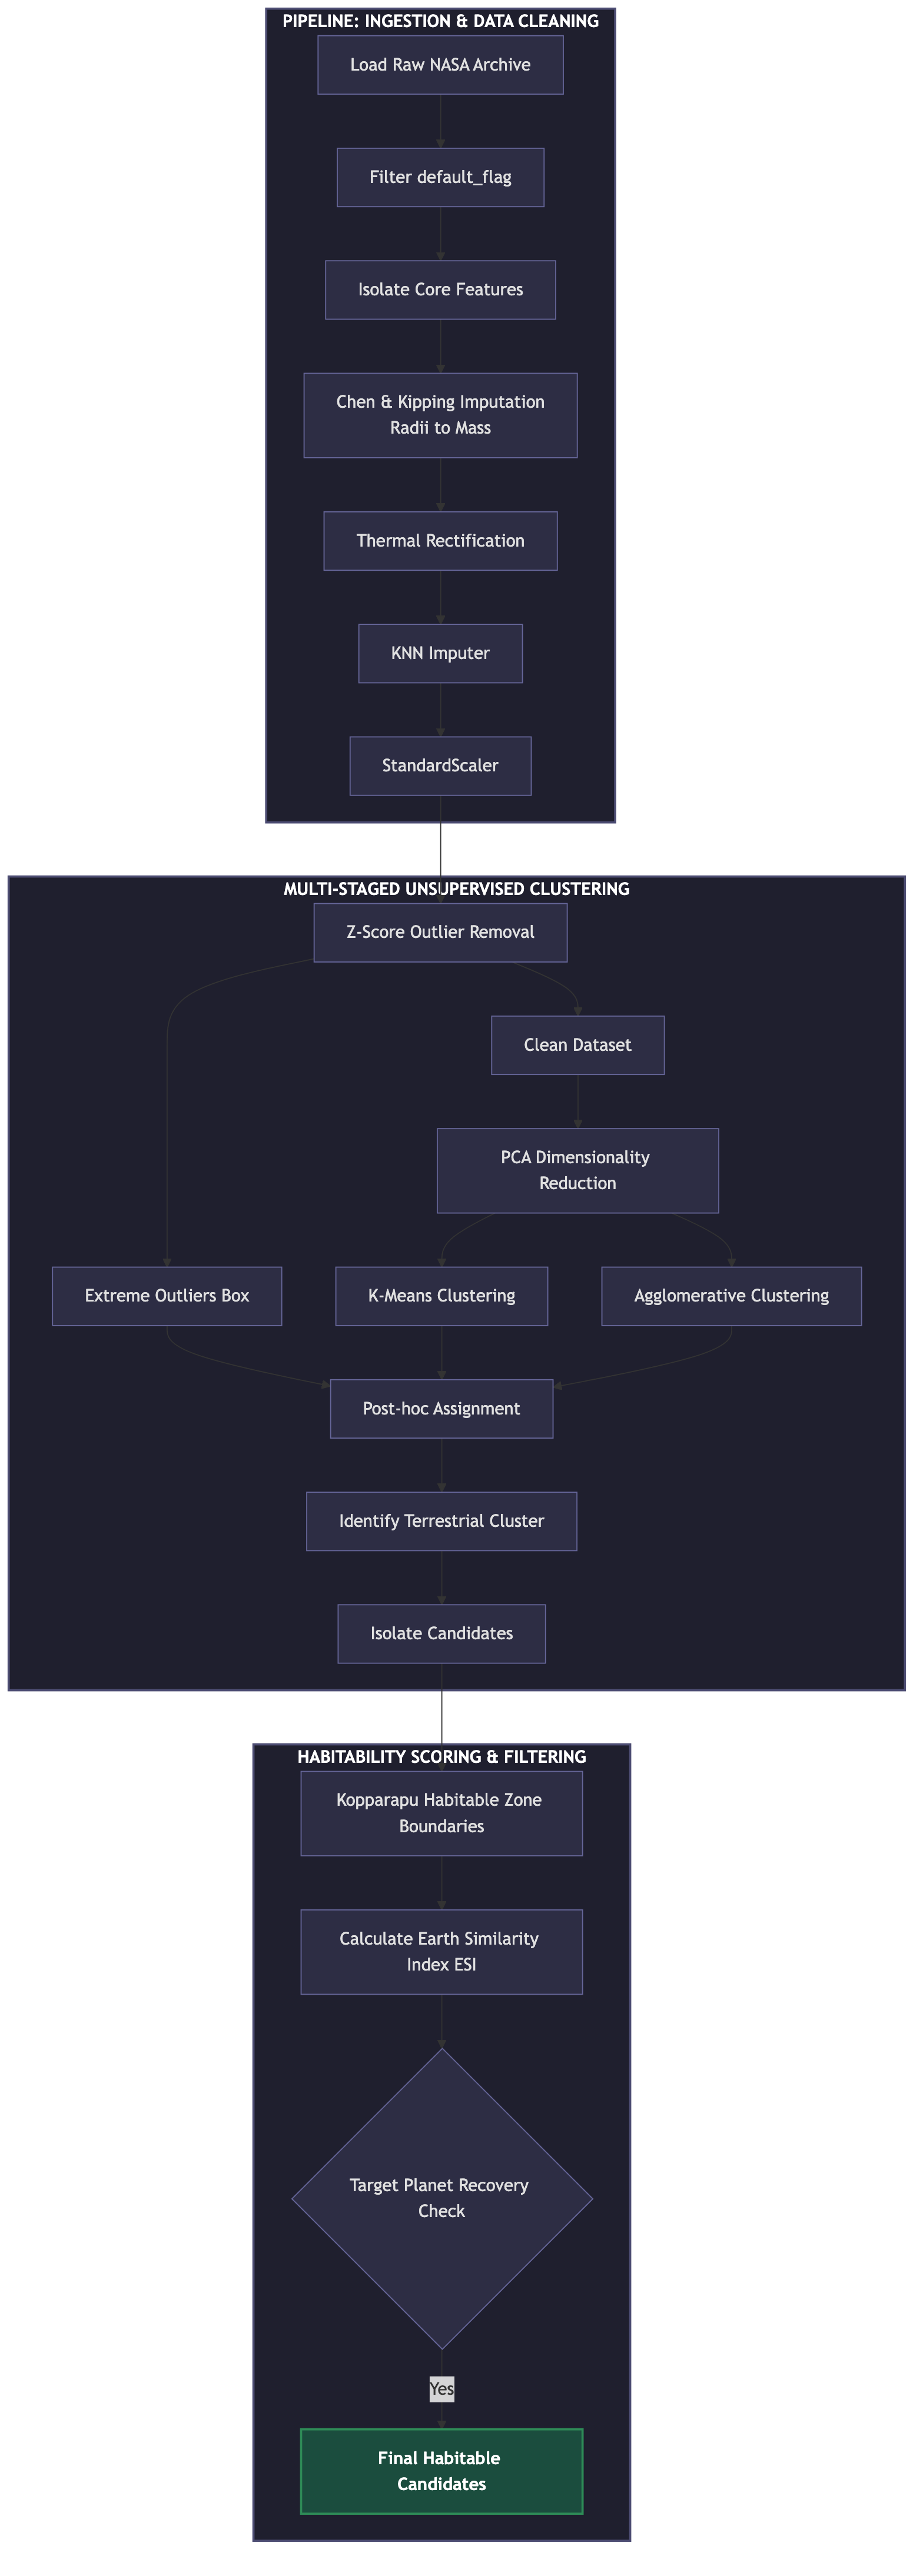
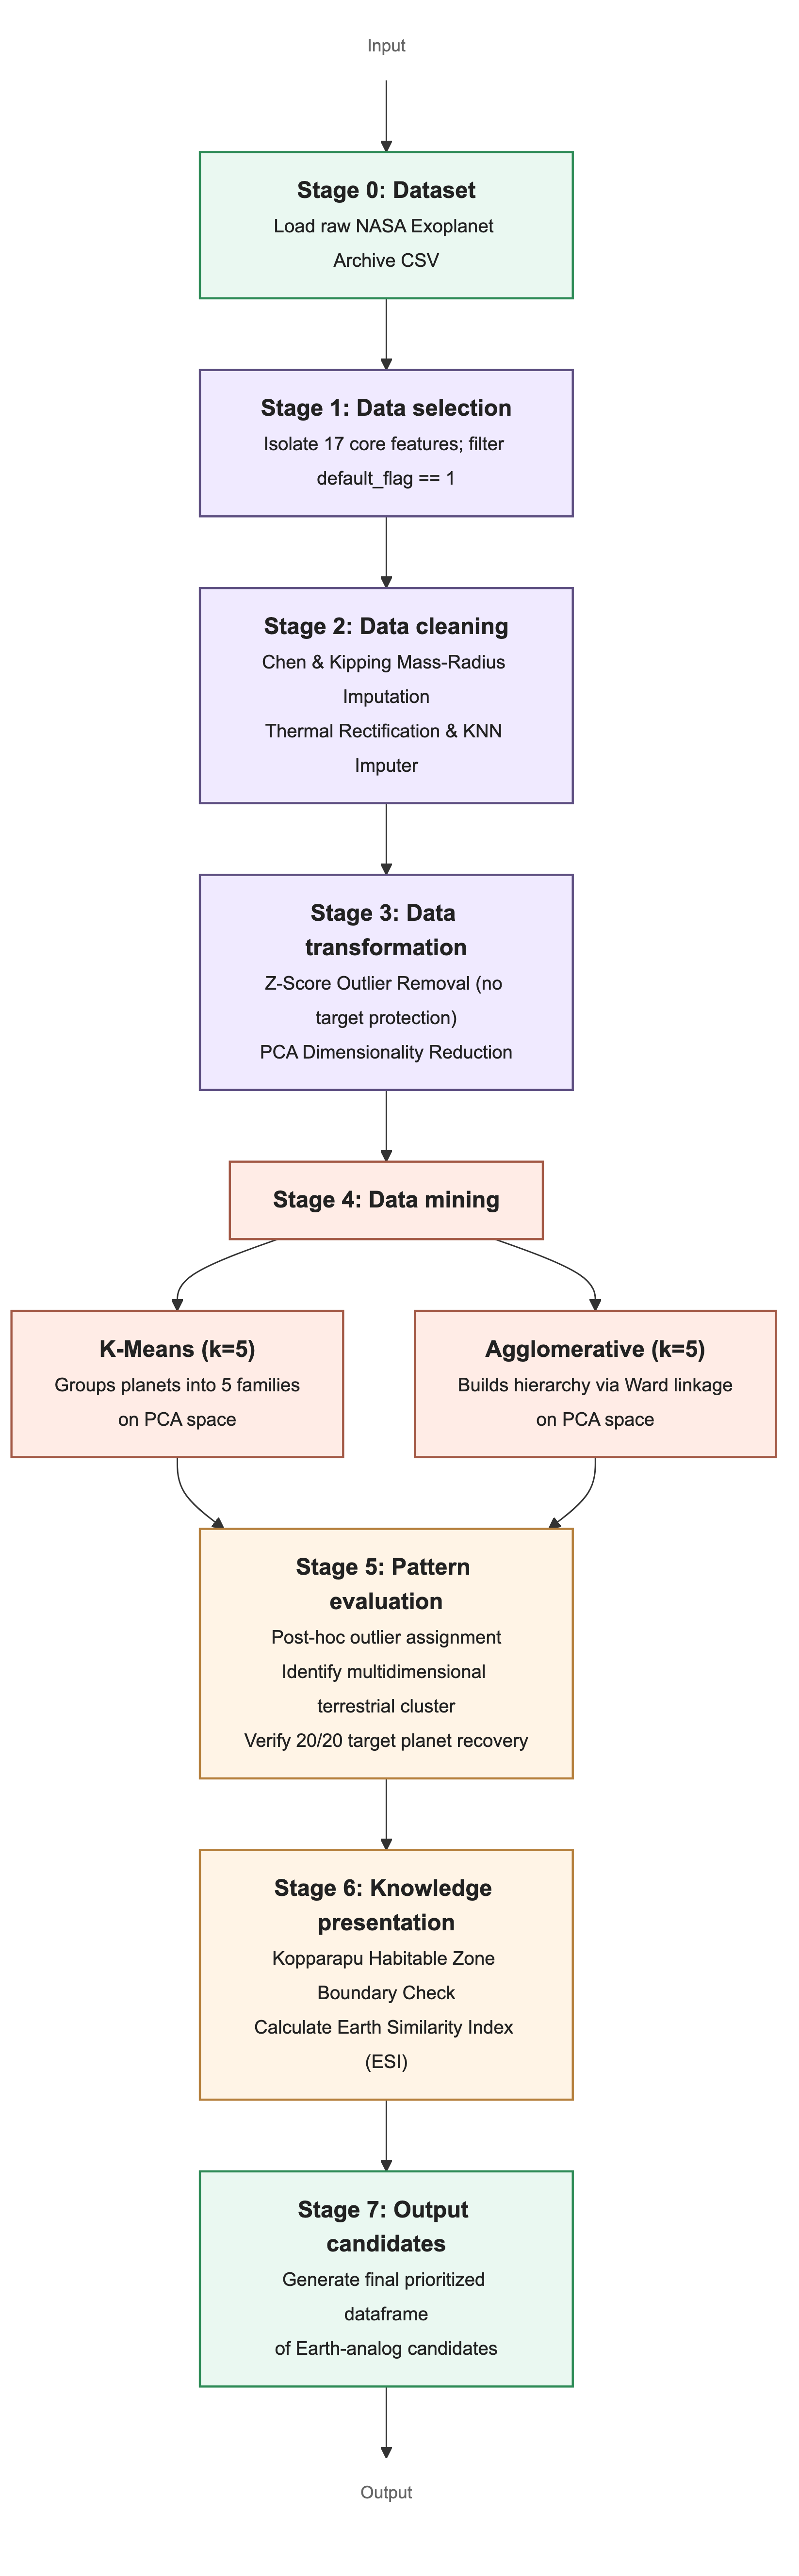
Update pipeline flowchart to match the visual style of previous publication

diff --git a/README.md b/README.md
@@ -8,89 +8,43 @@ The complete workflow, from ingesting the raw NASA Exoplanet Archive CSV to the 
 
 ```mermaid
 graph TD
-    %% Base Styles
-    classDef section fill:#1f1f2e,stroke:#4d4d73,stroke-width:2px,color:#fff,font-weight:bold;
-    classDef step fill:#2d2d44,stroke:#666699,stroke-width:1px,color:#e0e0e0;
-    classDef highlight fill:#1b4d3e,stroke:#2e8b57,stroke-width:2px,color:#fff,font-weight:bold;
-    classDef output fill:#4d1b1b,stroke:#8b2e2e,stroke-width:1px,color:#ffcccc;
+    classDef dataScope fill:#eaf8f1,stroke:#2e8b57,stroke-width:1.5px,color:#222,font-family:sans-serif;
+    classDef preprocessing fill:#f0eaff,stroke:#5e5082,stroke-width:1.5px,color:#222,font-family:sans-serif;
+    classDef mining fill:#ffece6,stroke:#a35946,stroke-width:1.5px,color:#222,font-family:sans-serif;
+    classDef evaluation fill:#fff4e6,stroke:#b57f3c,stroke-width:1.5px,color:#222,font-family:sans-serif;
+    classDef empty fill:none,stroke:none,color:#666,font-family:sans-serif,font-size:12px;
 
-    %% -----------------------------------------------------------------
-    %% SECTION 1: LOAD & PREPROCESS
-    %% -----------------------------------------------------------------
-    subgraph S1 [SECTION 1 to 3: INGESTION & DATA CLEANING]
-        A[Load Raw NASA CSV Archive] --> B[Filter default_flag == 1]
-        B --> C[Isolate 17 Core Features]
-        C --> D[Chen & Kipping Imputation<br/>Radii <--> Mass Mappings]
-        D --> E[Thermal Rectification<br/>Fix pl_eqt using pl_insol]
-        E --> F[KNN Imputer<br/>Fill remaining NaNs]
-        F --> G[StandardScaler<br/>Normalize Feature Matrix]
-    end
-    class S1 section;
-    class A,B,C,D,E,F,G step;
+    Input[Input]:::empty --> Stage0
 
-    %% -----------------------------------------------------------------
-    %% UNSUPERVISED CLUSTERING
-    %% -----------------------------------------------------------------
-    subgraph S2 [SECTIONS 4 to 6: MULTI-STAGED UNSUPERVISED CLUSTERING]
-        G --> H[Z-Score Outlier Removal<br/>Set aside absolute values where z > 4.5]
-        H --> I[Clean Dataset]
-        H --> J[Extreme Outliers Box]
-        
-        I --> K[PCA Dimensionality Reduction<br/>Retain 85% variance]
-        
-        K --> L[K-Means Clustering<br/>k=5 on PCA Space]
-        K --> M[Hierarchical Agglomerative<br/>Ward Linkage on PCA Space]
-        
-        J --> N[Post-hoc Assignment<br/>Map outliers to closest centroid]
-        L --> N
-        M --> N
-        
-        N --> O[Identify Earth-like Cluster<br/>Centroid closest to Earth baseline]
-        O --> P[Isolate Earth-like Candidates]
-        
-        P --> Q[DBSCAN Sub-Clustering<br/>eps=0.6, min_samples=5 on Core 3 Features]
-        Q --> R[Filter out DBSCAN Noise]
-        Q --> S[Dense Sub-clusters identified]
-    end
-    class S2 section;
-    class H,I,J,K,L,M,N,O,P,Q,R,S step;
-
-    %% -----------------------------------------------------------------
-    %% SCORING & FILTERING
-    %% -----------------------------------------------------------------
-    subgraph S3 [SECTION 7: HABITABILITY SCORING & FILTERING]
-        S --> T[Kopparapu Habitable Zone Boundary Check<br/>Recent Venus to Early Mars limits]
-        T --> U[Calculate Earth Similarity Index ESI<br/>Weighted Geometric Mean of R, rho, vesc, T]
-        U --> V{Target Planet Recovery Check<br/>Are all 20 target planets present?}
-        V -->|Yes| W[Generate Final Habitable Candidates DataFrame]
-    end
-    class S3 section;
-    class T,U,V step;
-    class W highlight;
-
-    %% -----------------------------------------------------------------
-    %% DOWNSTREAM ANALYSIS
-    %% -----------------------------------------------------------------
-    subgraph S4 [SECTIONS 8 to 11: DOWNSTREAM ANALYTICS & ARMs]
-        W --> X[Isolation Forest Outlier Benchmarking]
-        
-        W --> Y[Classification Pipeline<br/>Label positive targets via score percentile]
-        Y --> Z[SMOTE Class Balancing<br/>k_neighbors = 5]
-        Z --> AA[Train Decision Tree Classifier]
-        Z --> AB[Train Gaussian Naive Bayes Classifier]
-        
-        W --> AC[Categorical Binning<br/>Convert continuous metrics to discrete bins]
-        AC --> AD[Apriori Rule Mining<br/>Filter with Habitable as Consequent]
-    end
-    class S4 section;
-    class X,Y,Z,AA,AB,AC,AD step;
-
-    %% -----------------------------------------------------------------
-    %% TERMINAL VISUALIZATIONS
-    %% -----------------------------------------------------------------
-    subgraph S5 [SECTION 12: EXECUTION & FILE OUTPUTS]
-        X & AA & AB & AD --> AE[Save Diagnostic Suite<br/>27 Plots exported to Local Directory]
-    end
-    class S5 section;
-    class AE output;
+    Stage0["<b>Stage 0: Dataset</b><br/><span style='font-size:13px'>Load raw NASA Exoplanet Archive CSV</span>"]:::dataScope
+    Stage0 --> Stage1
+    
+    Stage1["<b>Stage 1: Data selection</b><br/><span style='font-size:13px'>Isolate 17 core features; filter default_flag == 1</span>"]:::preprocessing
+    Stage1 --> Stage2
+    
+    Stage2["<b>Stage 2: Data cleaning</b><br/><span style='font-size:13px'>Chen & Kipping Mass-Radius Imputation<br/>Thermal Rectification & KNN Imputer</span>"]:::preprocessing
+    Stage2 --> Stage3
+    
+    Stage3["<b>Stage 3: Data transformation</b><br/><span style='font-size:13px'>Z-Score Outlier Removal (no target protection)<br/>PCA Dimensionality Reduction</span>"]:::preprocessing
+    Stage3 --> Stage4
+    
+    Stage4["<b>Stage 4: Data mining</b>"]:::mining
+    Stage4 --> KMeans
+    Stage4 --> Agglom
+    
+    KMeans["<b>K-Means (k=5)</b><br/><span style='font-size:13px'>Groups planets into 5 families<br/>on PCA space</span>"]:::mining
+    Agglom["<b>Agglomerative (k=5)</b><br/><span style='font-size:13px'>Builds hierarchy via Ward linkage<br/>on PCA space</span>"]:::mining
+    
+    KMeans --> Stage5
+    Agglom --> Stage5
+    
+    Stage5["<b>Stage 5: Pattern evaluation</b><br/><span style='font-size:13px'>Post-hoc outlier assignment<br/>Identify multidimensional terrestrial cluster<br/>Verify 20/20 target planet recovery</span>"]:::evaluation
+    Stage5 --> Stage6
+    
+    Stage6["<b>Stage 6: Knowledge presentation</b><br/><span style='font-size:13px'>Kopparapu Habitable Zone Boundary Check<br/>Calculate Earth Similarity Index (ESI)</span>"]:::evaluation
+    Stage6 --> Stage7
+    
+    Stage7["<b>Stage 7: Output candidates</b><br/><span style='font-size:13px'>Generate final prioritized dataframe<br/>of Earth-analog candidates</span>"]:::dataScope
+    
+    Stage7 --> Output[Output]:::empty
 ```